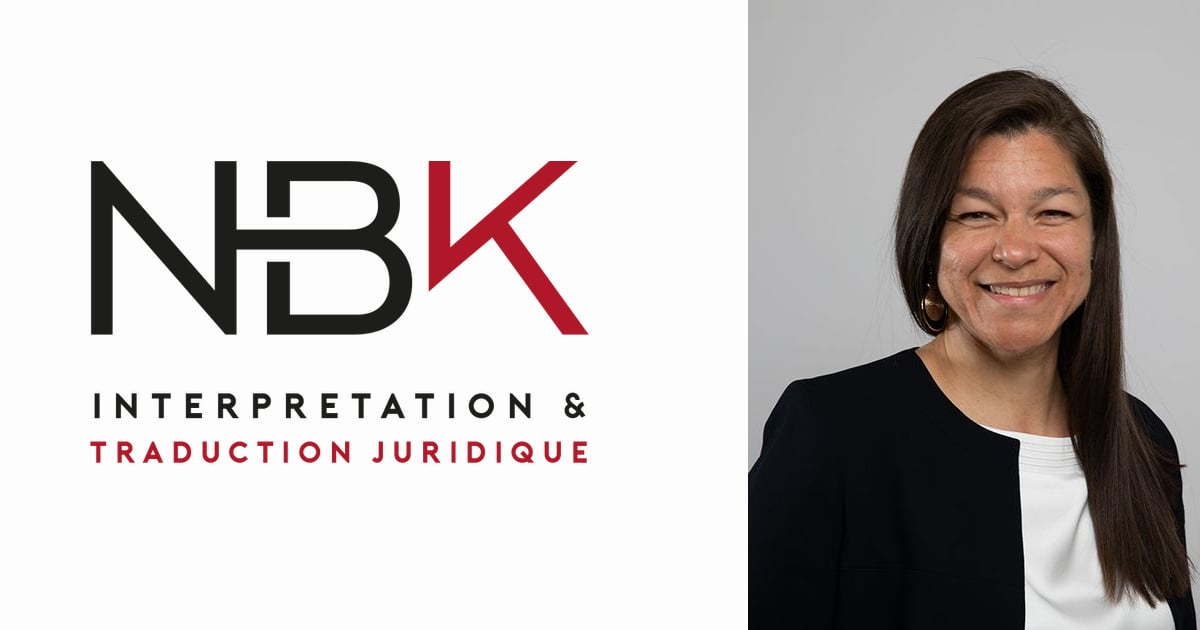
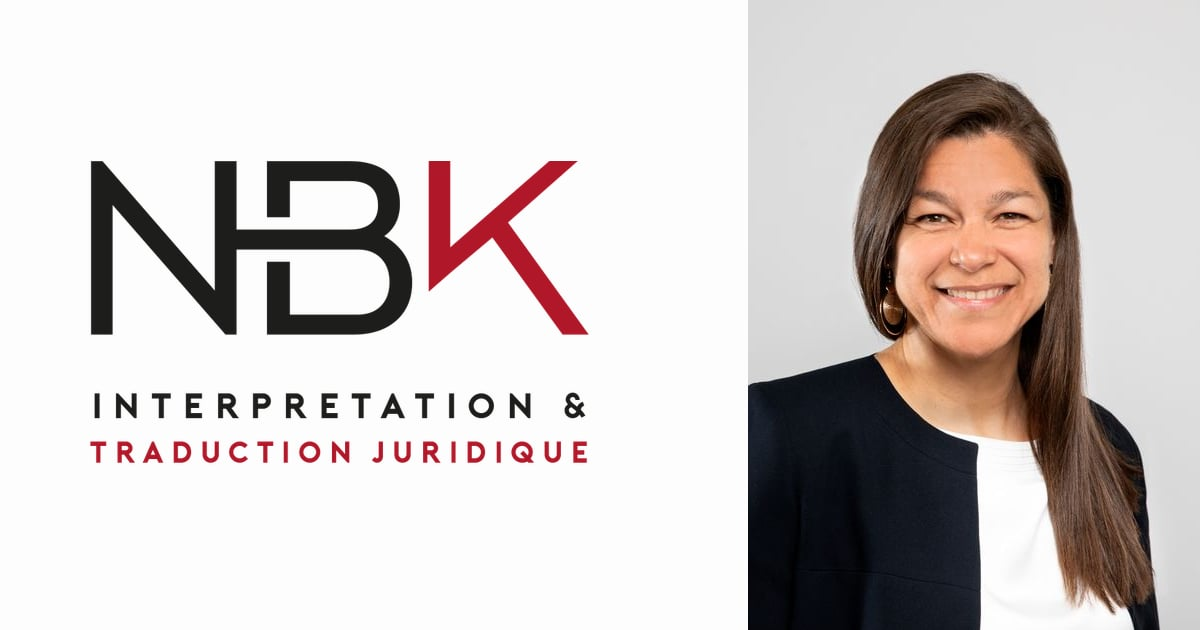
Vraie photo de Noelia dans le hero de l'accueil
- design/source/noelia-portrait.jpg remplacé par l'export pleine résolution
  (6334x4223, reçu de Noelia le 8 octobre 2026) ; rendu avec npm run assets
- PageHero de l'accueil utilise désormais cette photo au lieu du bloc gris
  de remplacement (object-[50%_20%] pour un cadrage correct du visage)
- hero.imageAlt ajouté au contenu (FR/ES) pour le texte alternatif
- Effet de bord bienvenu : l'image de partage (og-share.jpg) utilise la
  même photo, donc elle aussi passe du portrait Figma à la vraie photo

Changed region(s): [[0.6167, 0.0, 1.0, 1.0], [0.7092, 0.9651, 0.74, 1.0]]

diff --git a/components/pages/HomePage.tsx b/components/pages/HomePage.tsx
@@ -1,3 +1,4 @@
+import heroImage from "@/assets/images/noelia-portrait.webp";
 import { Expertise } from "@/components/sections/home/Expertise";
 import { Problems } from "@/components/sections/home/Problems";
 import { Process } from "@/components/sections/home/Process";
@@ -27,6 +28,9 @@ export function HomePage({ locale }: { locale: Locale }) {
           </p>
         }
         cta={{ label: hero.cta, href: PAGES.contact[locale] }}
+        image={heroImage}
+        imageAlt={hero.imageAlt}
+        imageClassName="object-[50%_20%]"
       />
       <Expertise locale={locale} />
       <Problems locale={locale} />

diff --git a/lib/content/types.ts b/lib/content/types.ts
@@ -81,7 +81,7 @@ export type Content = {
     madeByShort: string;
     rights: string;
   };
-  hero: { title: string; lead: string; join: string; tail: string; cta: string };
+  hero: { title: string; lead: string; join: string; tail: string; cta: string; imageAlt: string };
   servicesHero: { title: string; body: string; cta: string; imageAlt: string };
   expertise: { title: string; intro: string; proofs: { title: string; text: string[] }[]; cta: string };
   problems: {

diff --git a/lib/content/fr.ts b/lib/content/fr.ts
@@ -115,6 +115,7 @@ export const fr: Content = {
     join: "et",
     tail: "espagnol, pour les particuliers, les avocats et les institutions.",
     cta: "Recevoir mon devis",
+    imageAlt: "Portrait de Noelia Krähenbühl, interprète et traductrice",
   },
   servicesHero: {
     title: "Services d’interprétariat et de traduction",

diff --git a/lib/content/es.ts b/lib/content/es.ts
@@ -119,6 +119,7 @@ export const es: Content = {
     join: "y",
     tail: "francés, para particulares, abogados e instituciones.",
     cta: "Pedir presupuesto",
+    imageAlt: "Retrato de Noelia Krähenbühl, intérprete y traductora",
   },
   servicesHero: {
     title: "Servicios de interpretación y traducción",

diff --git a/CLAUDE.md b/CLAUDE.md
@@ -122,8 +122,13 @@ Figma exports live in `design/source/` (not served). `npm run assets` writes Web
 `assets/images/` (imported statically by `next/image`), plus `public/og-share.jpg` and the icons.
 Favicons come from the studio set in `design/source/favicon/` (favicon.ico 16–256, 512, 180 apple, 32) and
 are copied as they are to `app/favicon.ico`, `app/icon.png`, `app/apple-icon.png` and
-`public/icons/icon-512.png`; only `public/icons/icon-192.png` (manifest) is scaled from the 512. The logo exists only as a 713x423 PNG;
-the home portrait is _MG_5033 (photo 19 of the client PDF "Phtographie de noelia.pdf", only 1150x766 there, soft on retina; ask for the full-size export). All PDF photos are in `design/source/photos-noelia/`; the old Figma portrait is kept as `noelia-portrait-figma.png`. Replace the source and rerun the script.
+`public/icons/icon-512.png`; only `public/icons/icon-192.png` (manifest) is scaled from the 512. The logo exists only as a 713x423 PNG. The home hero portrait (`design/source/noelia-portrait.jpg`,
+full-size export received 8 October 2026, 6334x4223) is wired into `components/pages/HomePage.tsx`
+(`imageClassName="object-[50%_20%]"`); `lib/content/*.ts` `hero.imageAlt` holds the alt text. It
+replaced the old 1150x766 placeholder in place (recoverable from git history, commit a325d43, if ever
+needed); the Figma portrait is kept as `noelia-portrait-figma.png`. All PDF photos are in
+`design/source/photos-noelia/`. Replace the source and rerun `npm run assets` for any future portrait
+change.
 
 ## Form
 
